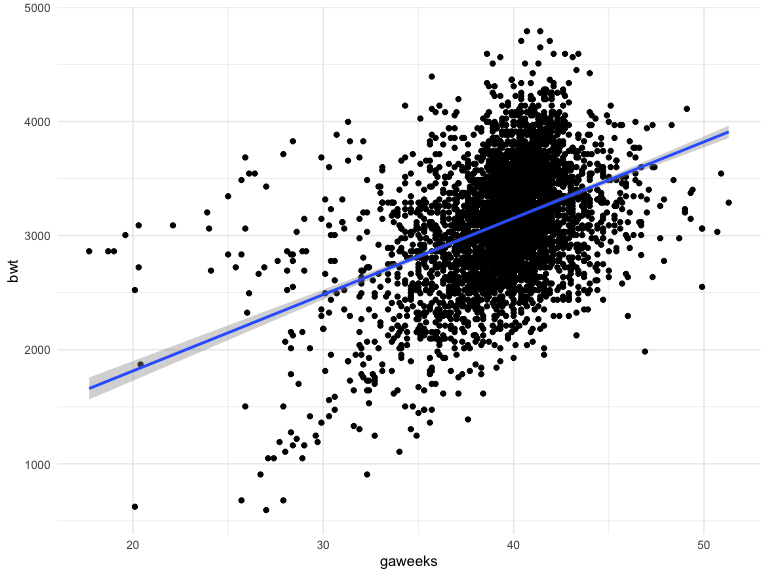
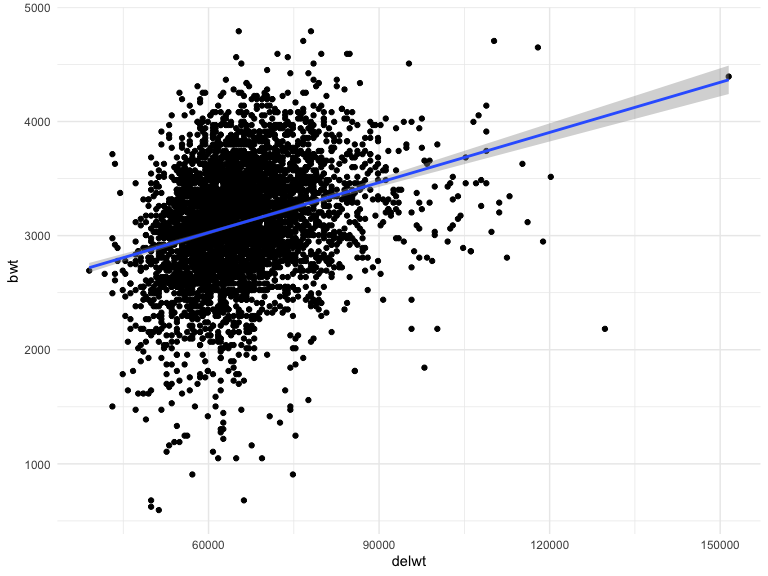
committing after generating 95% CIs for r^2 and log(B0*B1), adding headings for all questions, describing distribution of plots for problem 2, and elaborating on model selection process for problem 1.

diff --git a/p8105_hw6_at3346.md b/p8105_hw6_at3346.md
@@ -51,7 +51,7 @@ birthweight_data =
 
     ## See spec(...) for full column specifications.
 
-The variables I hypothesize that underly baby’s birthweight include:
+The variables I hypothesize that underlie baby’s birthweight include:
 babysex, bhead, blength, delwt, gaweeks, momage, pnumlbw, and pnumsga. I
 will plot each of these hypothesized variables against baby’s
 birthweight.
@@ -85,17 +85,55 @@ birthweight_data %>%
 
 ``` r
 birthweight_data %>% 
-  ggplot(aes(x = gaweeks, y = bwt)) + 
+  ggplot(aes(x = delwt, y = bwt)) + 
   geom_point() + 
   geom_smooth(method = 'lm')
 ```
 
 <img src="p8105_hw6_at3346_files/figure-gfm/prob1.exploratory-4.png" width="90%" />
 
-Based on my exploratory analysis of visually inspecting the plots, I
-will fit a regression model with baby’s sex, baby’s head circumference
-at birth (cm), baby’s length at birth (cm), and gestational age in
-weeks:
+``` r
+birthweight_data %>% 
+  ggplot(aes(x = gaweeks, y = bwt)) + 
+  geom_point() + 
+  geom_smooth(method = 'lm')
+```
+
+<img src="p8105_hw6_at3346_files/figure-gfm/prob1.exploratory-5.png" width="90%" />
+
+``` r
+birthweight_data %>% 
+  ggplot(aes(x = momage, y = bwt)) + 
+  geom_point() + 
+  geom_smooth(method = 'lm')
+```
+
+<img src="p8105_hw6_at3346_files/figure-gfm/prob1.exploratory-6.png" width="90%" />
+
+``` r
+birthweight_data %>% 
+  ggplot(aes(x = pnumlbw, y = bwt)) + 
+  geom_point() + 
+  geom_smooth(method = 'lm')
+```
+
+<img src="p8105_hw6_at3346_files/figure-gfm/prob1.exploratory-7.png" width="90%" />
+
+``` r
+birthweight_data %>% 
+  ggplot(aes(x = pnumsga, y = bwt)) + 
+  geom_point() + 
+  geom_smooth(method = 'lm')
+```
+
+<img src="p8105_hw6_at3346_files/figure-gfm/prob1.exploratory-8.png" width="90%" />
+
+Based on visually inspecting the plots, `delwt`, `momage`, `pnumlbw`,
+and `pnumsga` do not seem to be linearly associated with baby’s
+birthweight. Hence, I will fit an original regression model for baby’s
+birthweight with baby’s sex, baby’s head circumference at birth (cm),
+baby’s length at birth (cm), and gestational age in
+weeks.
 
 ``` r
 fit_og = lm(bwt ~ babysex + bhead + blength + gaweeks, data = birthweight_data)
@@ -103,16 +141,22 @@ fit_og = lm(bwt ~ babysex + bhead + blength + gaweeks, data = birthweight_data)
 fit_og %>% 
   broom::tidy() %>% 
   select(term, estimate, p.value) %>% 
+  rename(
+    "Term" = "term",
+    "Estimate" = "estimate",
+    "p-value" = "p.value") %>% 
   knitr::kable(digits = 4)
 ```
 
-| term          |    estimate | p.value |
+| Term          |    Estimate | p-value |
 | :------------ | ----------: | ------: |
 | (Intercept)   | \-6264.1543 |   0e+00 |
 | babysexfemale |     33.4196 |   2e-04 |
 | bhead         |    140.8672 |   0e+00 |
 | blength       |     81.7556 |   0e+00 |
 | gaweeks       |     14.0672 |   0e+00 |
+
+Plot of model residuals against fitted values:
 
 ``` r
 birthweight_data %>% 
@@ -124,20 +168,31 @@ birthweight_data %>%
 
 <img src="p8105_hw6_at3346_files/figure-gfm/prob1.residualsplot-1.png" width="90%" />
 
+Fit a model with length at birth and gestational age (main effects
+only):
+
 ``` r
 fit_maineff = lm(bwt ~ blength + gaweeks, data = birthweight_data)
 
 fit_maineff %>% 
   broom::tidy() %>% 
   select(term, estimate, p.value) %>% 
+  rename(
+    "Term" = "term",
+    "Estimate" = "estimate",
+    "p-value" = "p.value") %>% 
   knitr::kable(digits = 4)
 ```
 
-| term        |    estimate | p.value |
+| Term        |    Estimate | p-value |
 | :---------- | ----------: | ------: |
 | (Intercept) | \-4347.6671 |       0 |
 | blength     |    128.5557 |       0 |
 | gaweeks     |     27.0467 |       0 |
+
+Fit a model with head circumference, length, sex, and all interactions
+(including the three-way interaction) between
+these:
 
 ``` r
 fit_int = lm(bwt ~ bhead + blength + babysex + bhead * blength + bhead * babysex + blength * babysex +  bhead * blength * babysex, data = birthweight_data)
@@ -145,10 +200,14 @@ fit_int = lm(bwt ~ bhead + blength + babysex + bhead * blength + bhead * babysex
 fit_int %>%
   broom::tidy() %>% 
   select(term, estimate, p.value) %>% 
+  rename(
+    "Term" = "term",
+    "Estimate" = "estimate",
+    "p-value" = "p.value") %>% 
   knitr::kable(digits = 4)
 ```
 
-| term                        |    estimate | p.value |
+| Term                        |    Estimate | p-value |
 | :-------------------------- | ----------: | ------: |
 | (Intercept)                 | \-7176.8170 |  0.0000 |
 | bhead                       |    181.7956 |  0.0000 |
@@ -172,16 +231,16 @@ cv_df %>% pull(train) %>% .[[1]] %>% as_tibble
     ## # A tibble: 3,473 x 20
     ##    babysex bhead blength   bwt delwt fincome frace gaweeks malform menarche
     ##    <fct>   <dbl>   <dbl> <dbl> <dbl>   <dbl> <fct>   <dbl> <fct>      <dbl>
-    ##  1 female     34      51  3629 80286      35 White    39.9 absent        13
-    ##  2 male       34      48  3062 70760      65 Black    25.9 absent        14
-    ##  3 female     36      50  3345 67132      85 White    39.9 absent        12
-    ##  4 male       34      52  3062 71214      55 White    40   absent        14
-    ##  5 female     34      52  3374 70760       5 White    41.6 absent        13
-    ##  6 male       33      52  3374 58513      55 White    40.7 absent        12
-    ##  7 female     33      49  2778 63503       5 White    37.4 absent        12
-    ##  8 male       33      50  3459 76657      75 Black    40.7 absent        12
-    ##  9 male       35      51  3459 66224      55 White    39.4 absent        12
-    ## 10 female     35      48  3175 71668      75 White    39.7 absent        13
+    ##  1 male       34      48  3062 70760      65 Black    25.9 absent        14
+    ##  2 female     36      50  3345 67132      85 White    39.9 absent        12
+    ##  3 male       34      52  3062 71214      55 White    40   absent        14
+    ##  4 female     33      46  2523 57153      96 Black    40.3 absent        14
+    ##  5 female     33      49  2778 63503       5 White    37.4 absent        12
+    ##  6 male       36      52  3515 66224      85 White    40.3 absent        11
+    ##  7 male       33      50  3459 76657      75 Black    40.7 absent        12
+    ##  8 female     35      48  3175 71668      75 White    39.7 absent        13
+    ##  9 male       36      53  3629 66678      75 White    41.3 absent        11
+    ## 10 male       35      51  3544 58513      65 White    39.6 absent        12
     ## # … with 3,463 more rows, and 10 more variables: mheight <dbl>,
     ## #   momage <dbl>, mrace <fct>, parity <dbl>, pnumlbw <dbl>, pnumsga <dbl>,
     ## #   ppbmi <dbl>, ppwt <dbl>, smoken <dbl>, wtgain <dbl>
@@ -193,16 +252,16 @@ cv_df %>% pull(test) %>% .[[1]] %>% as_tibble
     ## # A tibble: 869 x 20
     ##    babysex bhead blength   bwt delwt fincome frace gaweeks malform menarche
     ##    <fct>   <dbl>   <dbl> <dbl> <dbl>   <dbl> <fct>   <dbl> <fct>      <dbl>
-    ##  1 female     33      46  2523 57153      96 Black    40.3 absent        14
-    ##  2 male       36      52  3515 66224      85 White    40.3 absent        11
-    ##  3 female     35      51  3317 58967      55 White    43.4 absent        13
-    ##  4 female     35      57  3374 66678      45 White    39.6 absent        12
-    ##  5 female     36      51  2977 61235      45 White    41.7 absent        13
-    ##  6 male       35      51  3345 65771      75 White    41.3 absent        12
-    ##  7 female     34      52  3629 50802      25 White    38   absent        10
-    ##  8 male       36      54  3402 73028      95 White    40.1 absent        11
-    ##  9 female     34      49  3317 64410      35 White    40.4 absent        12
-    ## 10 female     34      49  3033 58060      25 White    41.1 absent        12
+    ##  1 female     34      51  3629 80286      35 White    39.9 absent        13
+    ##  2 female     34      52  3374 70760       5 White    41.6 absent        13
+    ##  3 male       33      52  3374 58513      55 White    40.7 absent        12
+    ##  4 female     35      51  3317 58967      55 White    43.4 absent        13
+    ##  5 male       35      51  3459 66224      55 White    39.4 absent        12
+    ##  6 female     33      49  2551 54431      75 Black    38.1 absent        11
+    ##  7 male       34      52  3203 60781      25 White    41.1 absent        14
+    ##  8 female     34      49  3118 73028      45 Black    38.9 absent        10
+    ##  9 female     34      52  3629 50802      25 White    38   absent        10
+    ## 10 male       35      53  3175 58967      45 White    40.4 absent        13
     ## # … with 859 more rows, and 10 more variables: mheight <dbl>,
     ## #   momage <dbl>, mrace <fct>, parity <dbl>, pnumlbw <dbl>, pnumsga <dbl>,
     ## #   ppbmi <dbl>, ppwt <dbl>, smoken <dbl>, wtgain <dbl>
@@ -267,6 +326,8 @@ weather_df =
 
     ## file min/max dates: 1869-01-01 / 2019-09-30
 
+Writing a bootstrap function to draw repeated samples with replacement:
+
 ``` r
 set.seed(8)
 
@@ -277,9 +338,10 @@ boot_func = function(weather_df) {
 boot_samp = 
   tibble(
     strap_number = 1:5000,
-    strap_sample = rerun(5000, boot_func(weather_df))
-  ) 
+    strap_sample = rerun(5000, boot_func(weather_df))) 
 ```
+
+Producing estimates and plotting distribution of r^2 values:
 
 ``` r
 bootstrap_rsquared = 
@@ -289,14 +351,25 @@ bootstrap_rsquared =
     results = map(models, broom::glance)) %>% 
   select(-strap_sample, -models) %>% 
   unnest(cols = c(results)) %>% 
-  select(strap_number, r.squared) %>% 
-  ggplot(aes(x = r.squared)) + 
-  geom_density(color = "seagreen")
+  select(strap_number, r.squared) 
 
-bootstrap_rsquared
+bootstrap_rsquared %>% 
+  ggplot(aes(x = r.squared)) + 
+  geom_density(color = "seagreen") +
+  geom_vline(aes(xintercept = mean(r.squared), color = "blue"), linetype = "dashed") +
+  theme(legend.position = "none")
 ```
 
 <img src="p8105_hw6_at3346_files/figure-gfm/prob2.rsquared-1.png" width="90%" />
+
+The distribution of the r^2 values is left-skewed. The distribution has
+a slightly heavy tail extending to low values and a bit of a “shoulder”,
+features that may be related to the frequency with which large outliers
+are included in the bootstrap sample.
+
+The 95% confidence interval of r^2 is 0.89, 0.93.
+
+Producing estimates and plotting distribution of log(β0\*β1) values:
 
 ``` r
 bootstrap_logbetas = 
@@ -312,11 +385,20 @@ bootstrap_logbetas =
   rename(
     "B0" = "(Intercept)",
     "B1" = "tmin") %>% 
-  mutate(log_betas = log(B0*B1)) %>% 
-  ggplot(aes(x = log_betas)) + 
-  geom_density(color = "seagreen")
+  mutate(log_betas = log(B0*B1)) 
 
-bootstrap_logbetas
+bootstrap_logbetas %>% 
+  ggplot(aes(x = log_betas)) + 
+  geom_density(color = "seagreen") +
+  geom_vline(aes(xintercept = mean(log_betas), color = "blue"), linetype = "dashed") +
+  theme(legend.position = "none")
 ```
 
 <img src="p8105_hw6_at3346_files/figure-gfm/prob2.logbetas-1.png" width="90%" />
+
+The distribution of the log(β0\*β1) is approximately normal. This is
+likely due to the log-transformation of the product of β0 and β1 which
+is often used to transform skewed data to approximately conform to
+normality.
+
+The 95% confidence interval of log(β0\*β1) is 1.97, 2.06.
